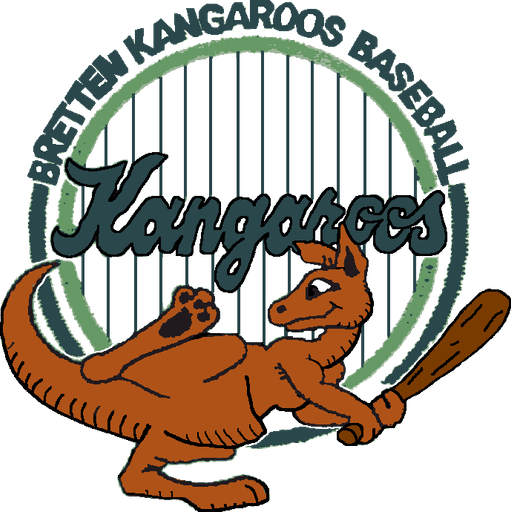
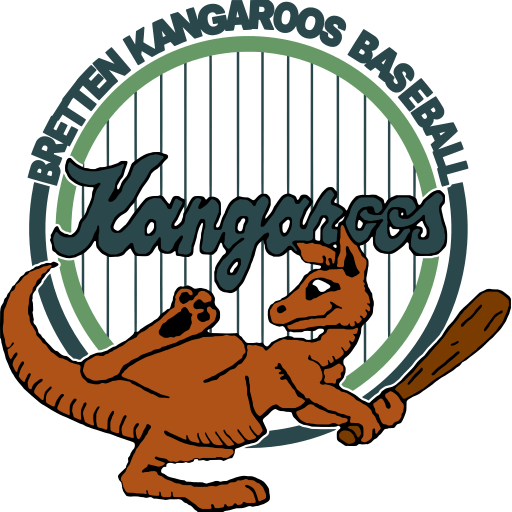
Replace the crest with the vector SVG
Header, news placeholder, ballpark box, own standings row and favicon now use
public/images/crest.svg; crest.png is regenerated from it as a PNG fallback
and apple-touch icon.

diff --git a/src/lib/bsm.ts b/src/lib/bsm.ts
@@ -62,7 +62,7 @@ const logos = ((cache as { logos?: Record<string, { file: string }> }).logos ??
 // Self-hosted logos of a table row (two for an SG); our own row uses the crest
 export const rowLogos = (row: StandingRow) =>
   row.isUs
-    ? ["/images/crest.png"]
+    ? ["/images/crest.svg"]
     : (row.clubIds ?? []).flatMap((id) => logos[id]?.file ?? []);
 
 // "Herren – Bezirksliga" → "Herren"

diff --git a/docs/todo.md b/docs/todo.md
@@ -127,7 +127,7 @@ Needs: WP1.
 - [x] Apply the design from [`design.md`](design.md) to the Bookworm theme (colours, fonts, header/menus, footer, page templates) — **Sonnet**
   - [x] Part 1: brand tokens (`theme.json`, type scale, Barlow/Barlow Condensed via Astro Font API), header (pinstripe, Verein dropdown, phone full-screen menu), footer, shared `.page-title-band` style
   - [x] Part 3: text pages (`[regular].astro` with title band, year column, file list), Kontakt page; content of Ballpark, Vereinsgeschichte, Förderverein, BKIL, Downloads, Kontakt, Impressum, Datenschutz copied from the old site (PDFs in `public/files`)
-  - [x] Real crest at `public/images/crest.png`
+  - [x] Real crest at `public/images/crest.svg` (vector, PNG copy for favicon fallback)
   - [x] Startseite: hero with ballpark photo, last results from BSM, news, Xmas-Ball teaser, team tiles
   - [x] News templates, Spielplan restyle, calendar feeds (detailed in "Match the design boards" below)
 - [x] **Match the design boards** — compared every board in [`design/`](design/) with the built pages on 2026-10-24.

diff --git a/docs/bsm-api.md b/docs/bsm-api.md
@@ -252,7 +252,7 @@ Not hotlinked: showing logos straight from the BSM server would send visitors' I
 - **Logos:** `fetch-bsm.mjs` downloads the `logo_url` of every club in a table row (two for an SG), shrinks it to a
   64×64 WebP in `public/images/bsm-logos/<clubId>.webp` and lists it in `logos` of the cache
   (`{ "<clubId>": { file, source } }`). A logo is downloaded again only when its BSM URL changes (it carries a timestamp);
-  a failed download keeps the old file. Our own row shows `public/images/crest.png`. The deploy Action commits the logo
+  a failed download keeps the old file. Our own row shows `public/images/crest.svg`. The deploy Action commits the logo
   folder together with the cache.
 - **Form** is computed from all games of the league (the table only has the streak), per league entry: the last five
   results (`W`/`L`/`T`, oldest first) of all rated games (`played`, `forfeit`, `no_show`, `manually_valued`), so it
